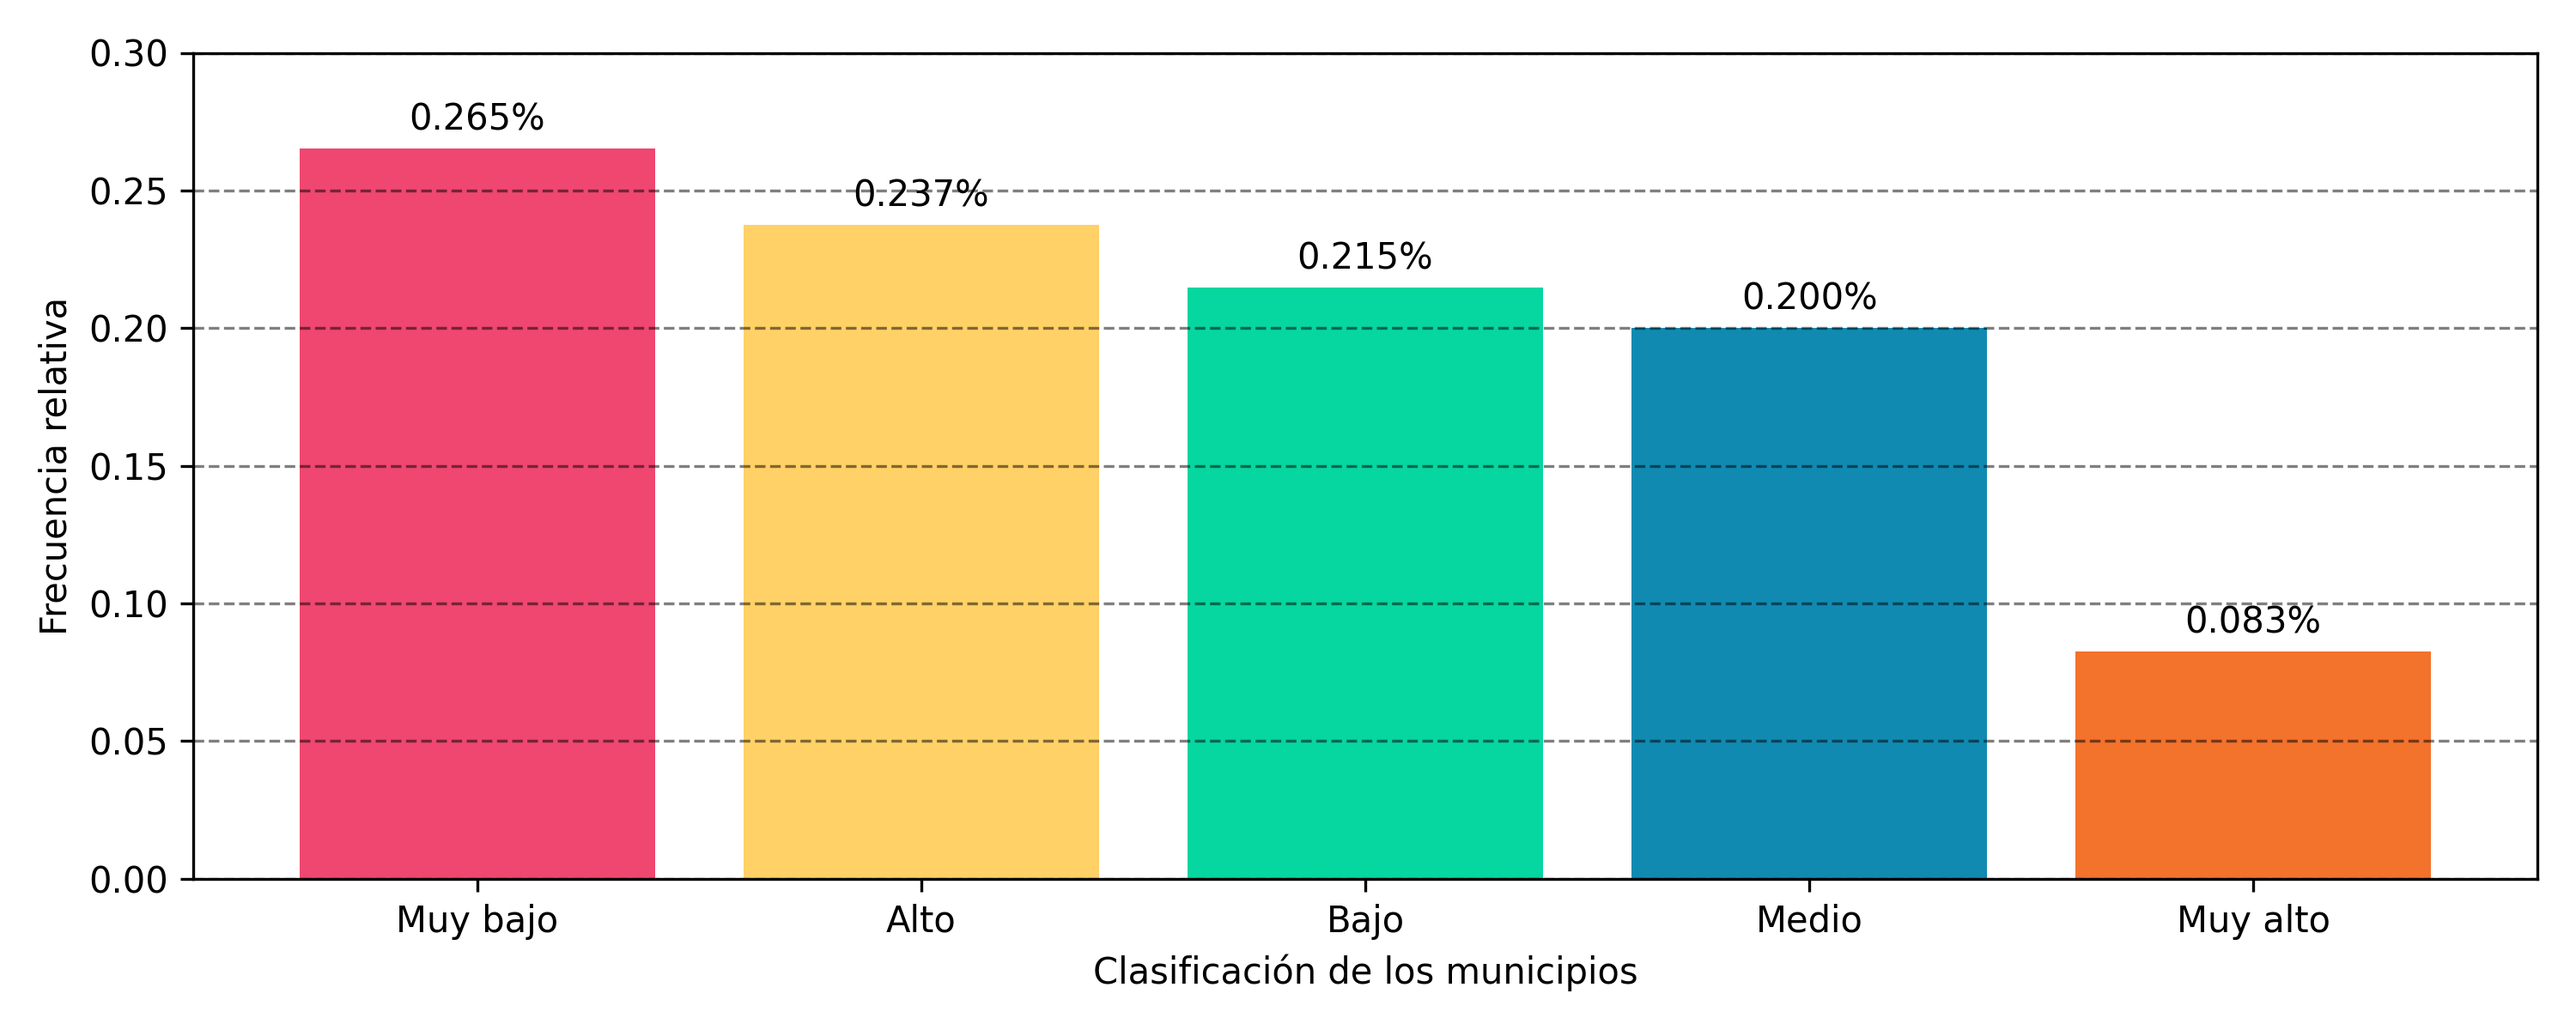
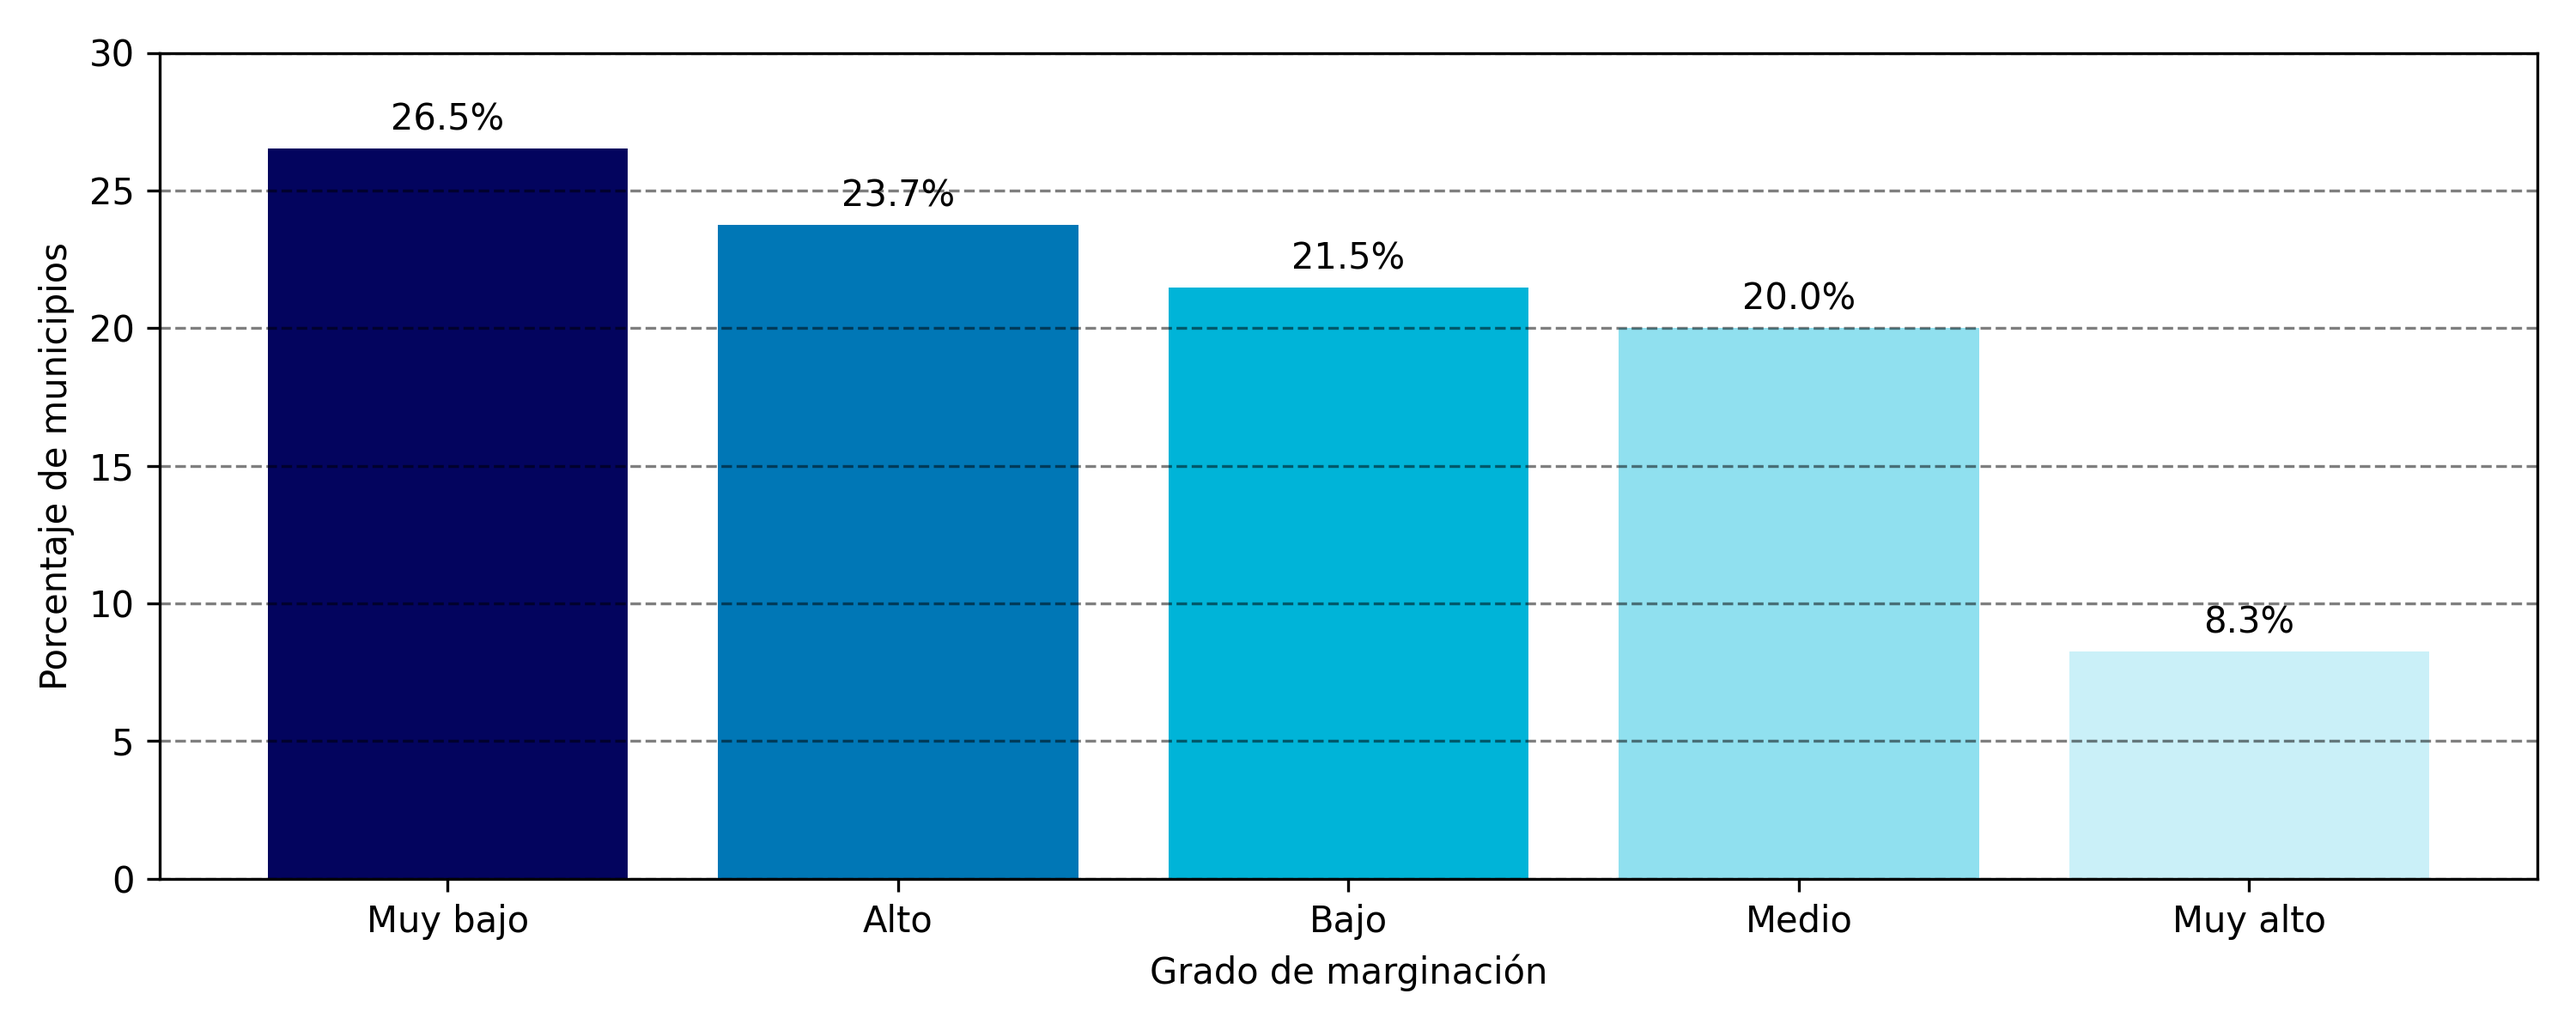
Change xlabel and ylabel

diff --git a/Scripts/histogram_data.py b/Scripts/histogram_data.py
@@ -9,7 +9,7 @@ def autolabel(bars: BarContainer) -> None:
     for bar in bars:
         height = bar.get_height()
         pos = (bar.get_x()+bar.get_width()/2, height)
-        plt.annotate('{:.3f}%'.format(height),
+        plt.annotate('{:.1f}%'.format(height),
                      xy=pos,
                      # 3 points vertical offset
                      xytext=(0, 3),
@@ -23,15 +23,15 @@ params["file graphics"] = "histogram_classes.png"
 colors = get_classes_colors(params)
 data = data_class(params)
 frecuency = data.obtain_frecuency_clasees()
-frecuency = frecuency/frecuency.sum()
+frecuency = 100*frecuency/frecuency.sum()
 plt.subplots(figsize=(10, 4))
 bars = plt.bar(frecuency.index,
                frecuency.values,
                color=colors.values())
 autolabel(bars)
-plt.xlabel("Clasificación de los municipios")
-plt.ylabel("Frecuencia relativa")
-plt.ylim(0, 0.3)
+plt.xlabel("Grado de marginación")
+plt.ylabel("Porcentaje de municipios")
+plt.ylim(0, 30)
 plt.grid(ls="--",
          alpha=0.5,
          color="#000000",
